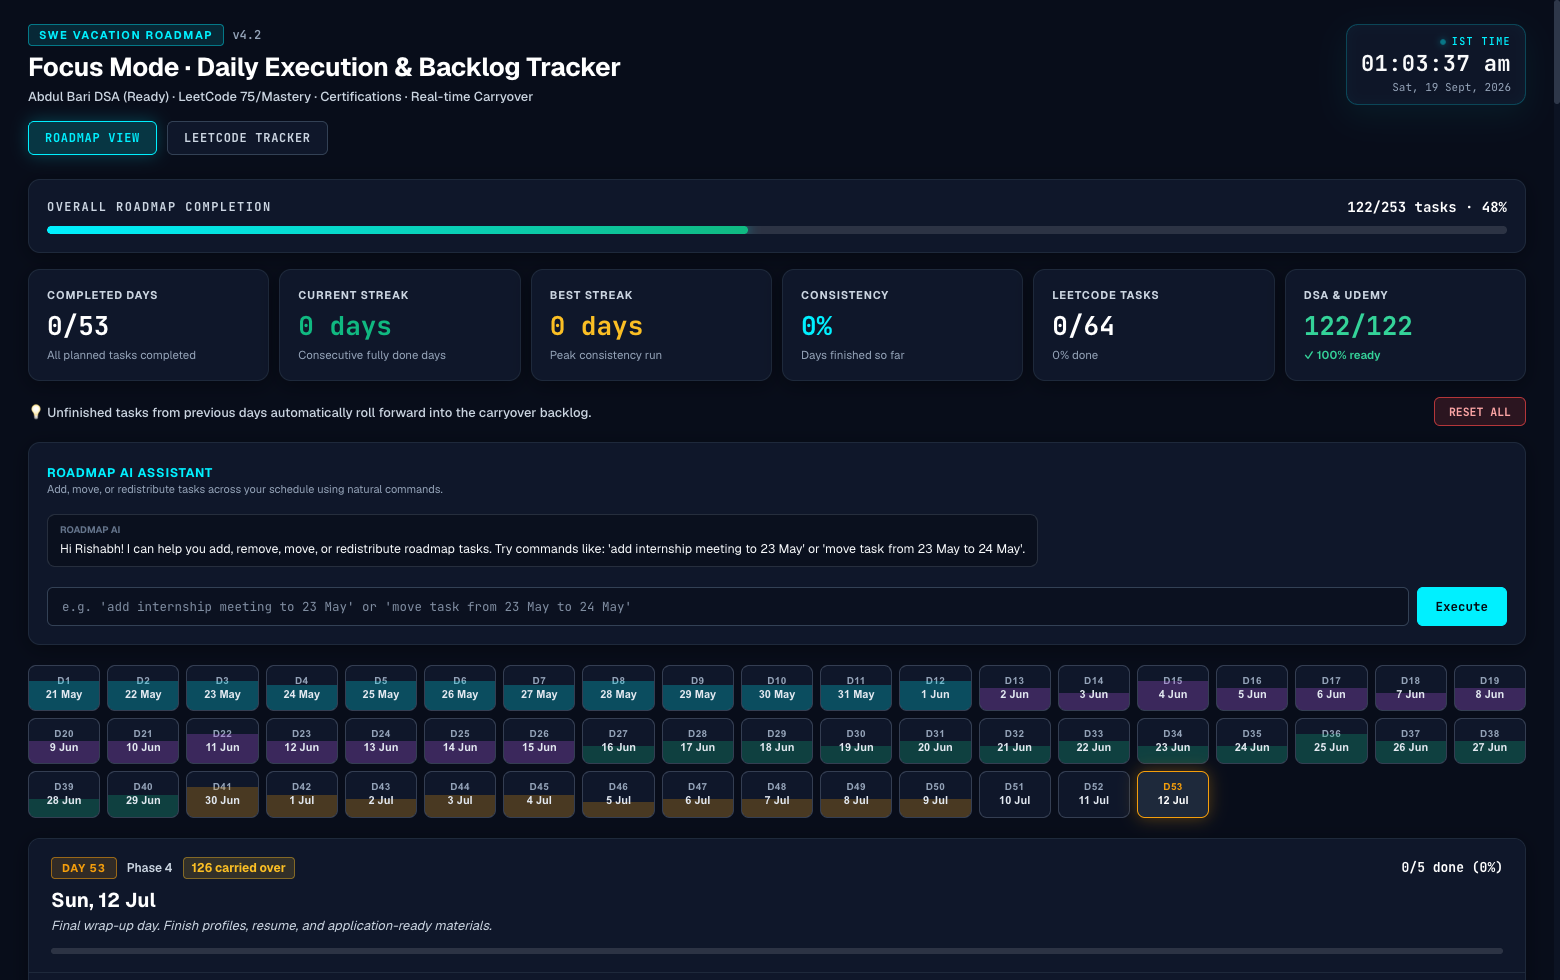
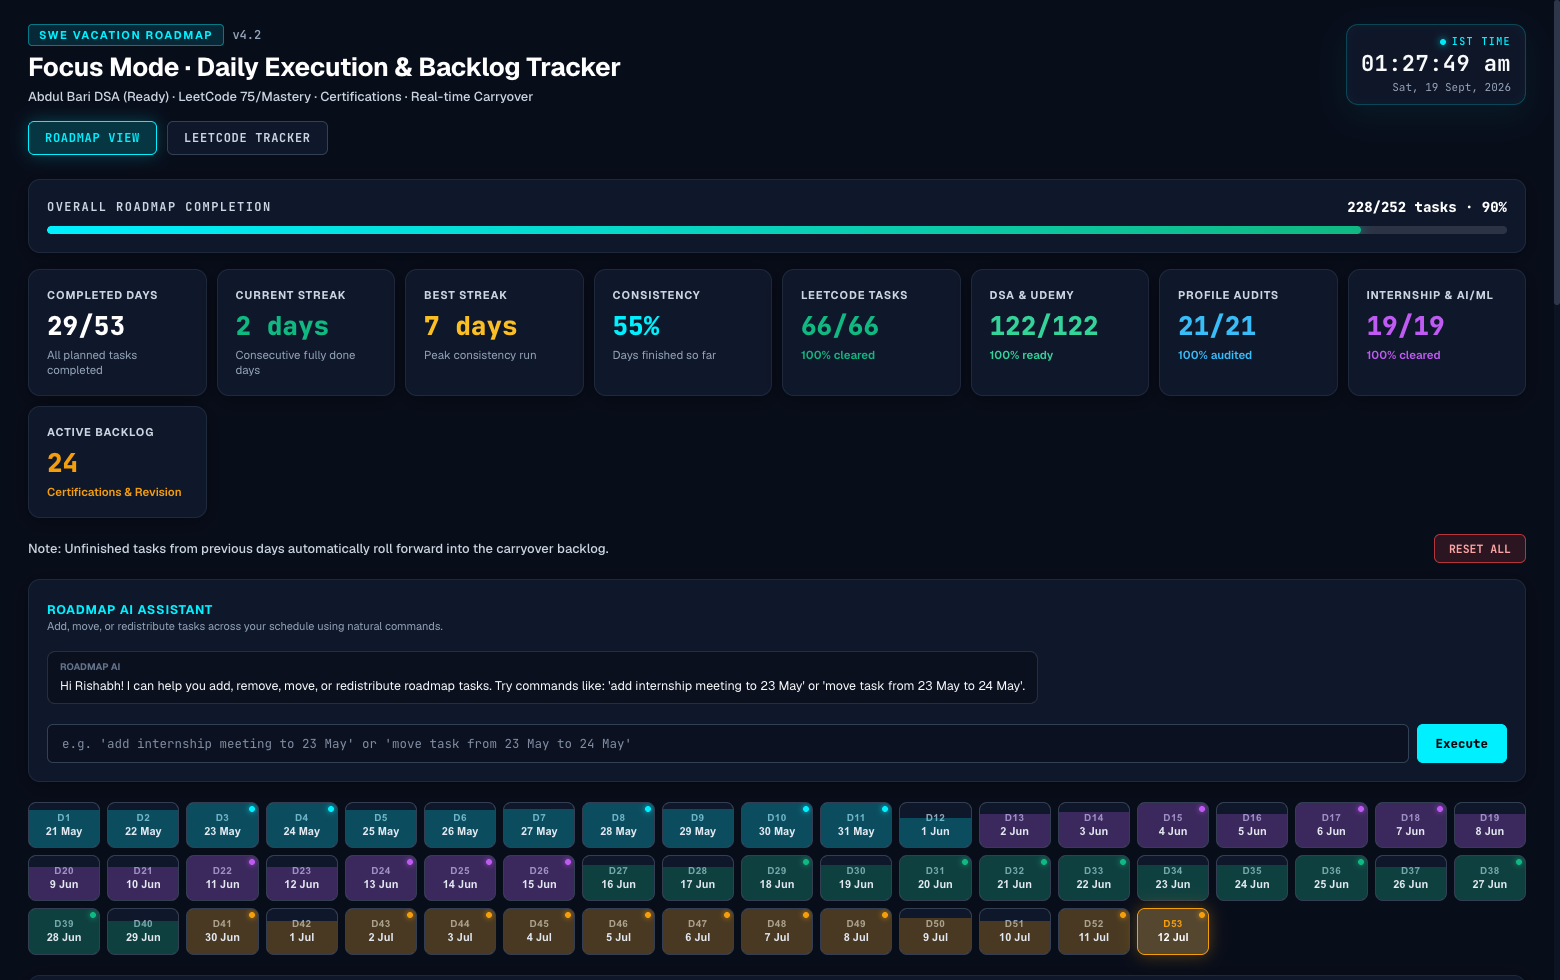
docs: update screenshots and remove license from readme

diff --git a/README.md b/README.md
@@ -6,7 +6,6 @@
 [![Vite](https://img.shields.io/badge/Vite-8.0-646CFF?logo=vite&logoColor=white)](https://vitejs.dev/)
 [![Lint](https://img.shields.io/badge/ESLint-Passing-4B32C3?logo=eslint&logoColor=white)](https://eslint.org/)
 [![Break Period](https://img.shields.io/badge/Timeline-May_2026_--_July_2026-00F0FF)](#curriculum--phase-breakdown-may-21--july-12-2026)
-[![License: MIT](https://img.shields.io/badge/License-MIT-30D158.svg)](LICENSE)
 
 ---
 
@@ -168,12 +167,6 @@ roadmap-app/
 ├── vite.config.js
 └── README.md
 ```
-
----
-
-## License
-
-Distributed under the MIT License. See [LICENSE](LICENSE) for more information.
 
 ---
 
